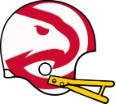
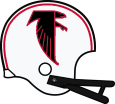
Update uniforms and free agent demand tools

diff --git a/css/uniforms.css b/css/uniforms.css
@@ -199,28 +199,28 @@
     background-color: black;
 }
 #t-helmetlogo-cin {
-    background-color: white;
+    background-color: var(--CIB);
 }
 #t-facemask-cin {
     background-color: var(--CIF);
 }
 #t-jersey-cin {
-    background-color: red;
+    background-color: var(--CIB);
 }
 #t-jerseystripe-cin {
-    background-color: black;
+    background-color: var(--CIF);
 }
 #t-pants-cin {
-    background-color: red;
+    background-color: var(--CIF);
 }
 #t-pantsstripe-cin {
-    background-color: white;
+    background-color: var(--CIB);
 }
 #t-sockhigh-cin {
     background-color: black;
 }
 #t-socklow-cin {
-    background-color: red;
+    background-color: var(--CIB);
 }
 
 
@@ -1338,19 +1338,19 @@
     background-color: var(--ATFr);
 }
 #t-facemask-atl {
-    background-color: yellow;
+    background-color: black;
 }
 #t-jersey-atl {
-    background-color: c1d32f;
+    background-color: var(--ATFr);
 }
 #t-jerseystripe-atl {
     background-color: black;
 }
 #t-pants-atl {
-    background-color: c1d32f;
+    background-color: var(--ATFr);
 }
 #t-pantsstripe-atl {
-    background-color: var(--ATFr);
+    background-color: white
 }
 #t-sockhigh-atl {
     background-color: var(--ATFr);

diff --git a/datatools/freeagentdemands.php b/datatools/freeagentdemands.php
@@ -10,11 +10,11 @@ require('../../ptf-services/player-service.php');
 //REMOVE BEFORE RUNNING!!!!!
 
 // VARIABLES //
-$draftStart = 10261; // IMPORTANT!!!!   The Players file includes incoming draft class.  This is the PLAYERID number where draft picks BEGIN! //
+$draftStart = 12694; // IMPORTANT!!!!   The Players file includes incoming draft class.  This is the PLAYERID number where draft picks BEGIN! //
 $salaryCap = 150000000;
 
-//$var = 'ext';
-$var = 'fa';
+$var = 'ext';
+//$var = 'fa';
 
 if($var == 'ext') {
     $playerService = playerService(0,0,0);
@@ -43,7 +43,7 @@ if(isset($_POST['finalize'])){
 
     $passed_array = unserialize($_POST['datatable']);
     foreach ($passed_array as $row) {
-        $values .=  '(' . $row[0] . ',"' . $row[1] . '",' . $row[2] . ',' . $row[3] . ',' . $row[4] . ',' . $row[5] . ',"' . $row[6] . '"),';
+        $values .=  '(' . $row[0] . ',"' . $row[1] . '",' . $row[2] . ',' . $row[3] . ',' . $row[4] . ',' . $row[5] . ',"' . $row[6] . '", 0),';
     }
     $values = substr($values, 0, -1);
 
@@ -54,10 +54,10 @@ if(isset($_POST['finalize'])){
     }
     $upsert2 = substr($update2, 0, -1);
 
-    //echo 'INSERT INTO `ptf_fa_demands` (PlayerID, Position, year, amount, tier, previous, string) VALUES ' . $values;
+    //echo 'INSERT INTO `ptf_extend_demands` (PlayerID, Position, year, amount, tier, previous, string, strikes) VALUES ' . $values . ' ON DUPLICATE KEY UPDATE ' . $upsert2; exit;
 
     if($var == 'ext') {
-        $write = $connection->query('INSERT INTO `ptf_extend_demands` (PlayerID, Position, year, amount, tier, previous, string) VALUES ' . $values . ' ON DUPLICATE KEY UPDATE ' . $upsert2 . ';');
+        $write = $connection->query('INSERT INTO `ptf_extend_demands` (PlayerID, Position, year, amount, tier, previous, string, strikes) VALUES ' . $values . ' ON DUPLICATE KEY UPDATE ' . $upsert2 . ';');
     } else {
         $write = $connection->query('INSERT INTO `ptf_fa_demands` (PlayerID, Position, year, amount, tier, previous, string) VALUES ' . $values . ';');
     }
